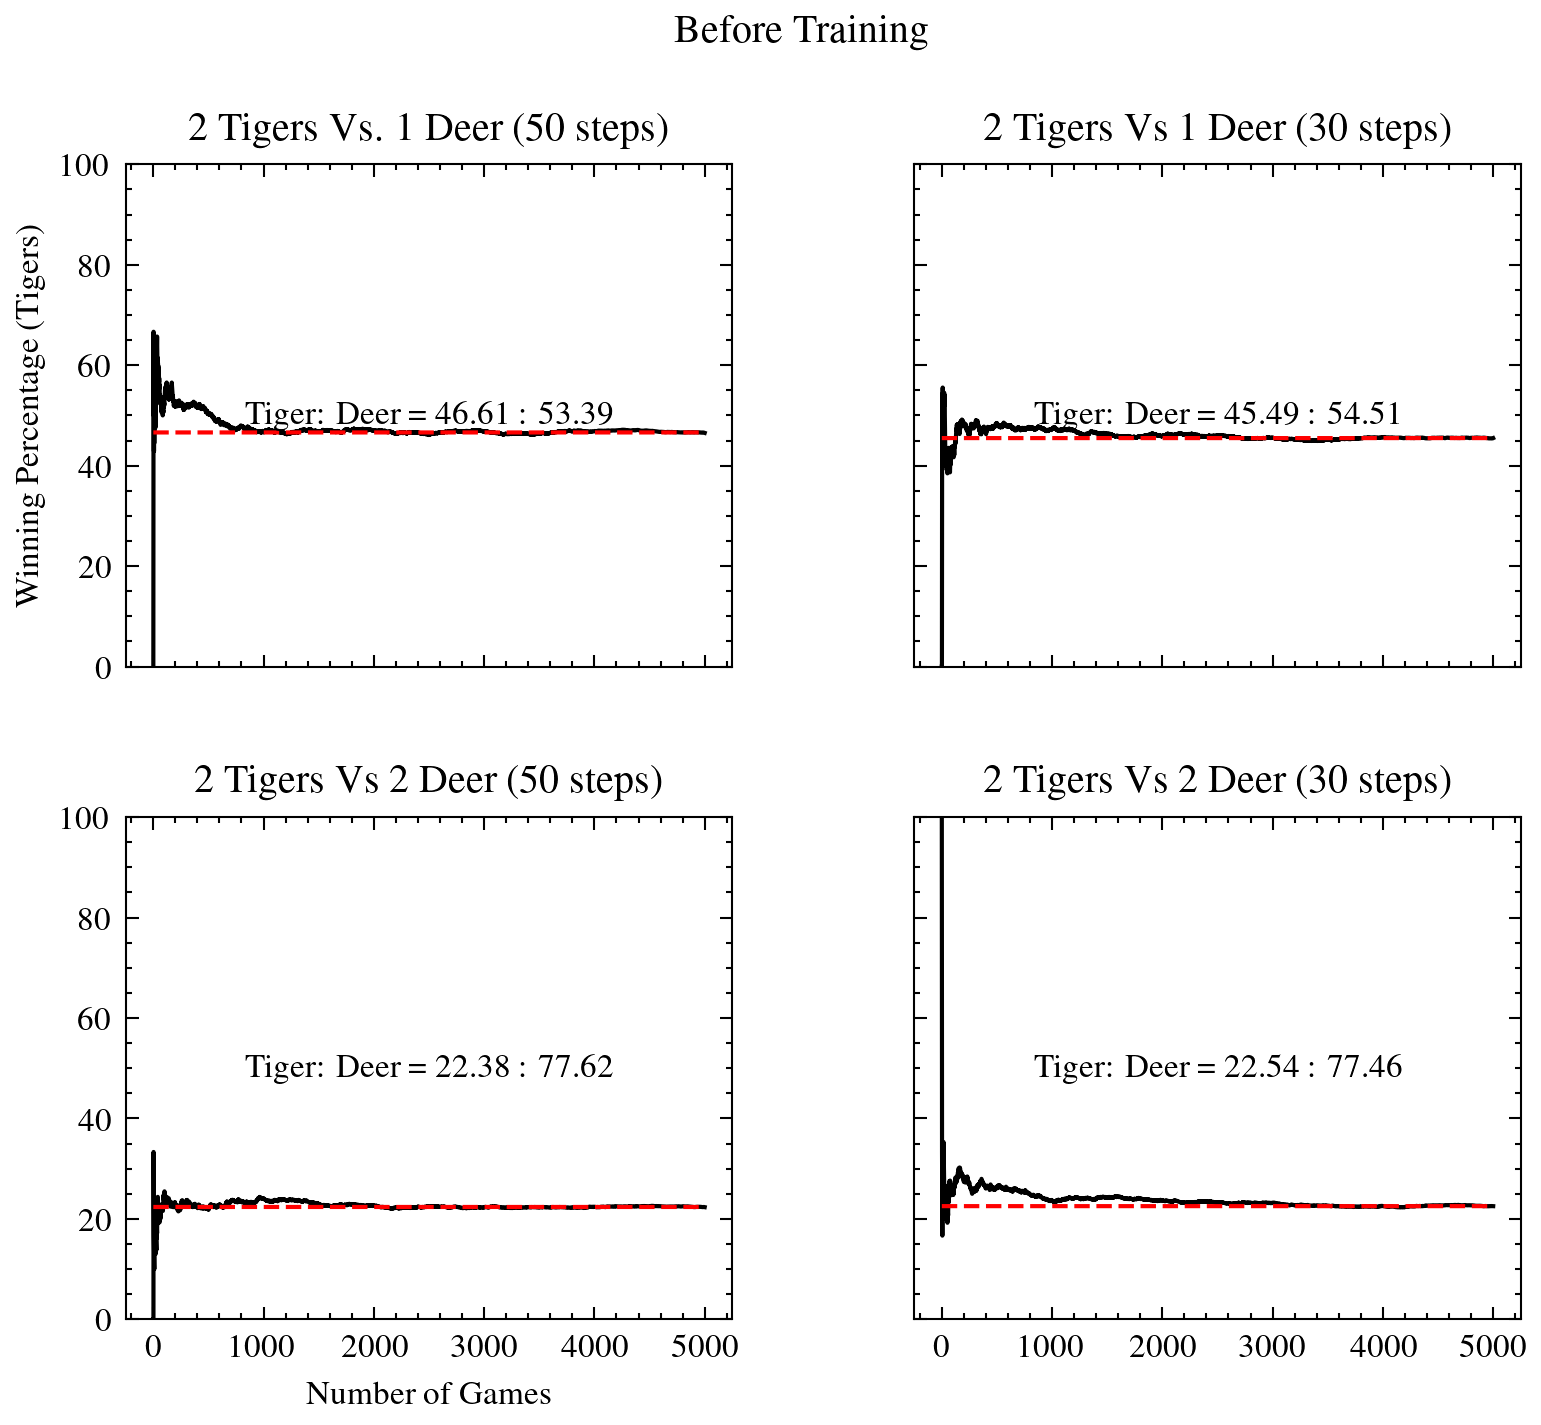
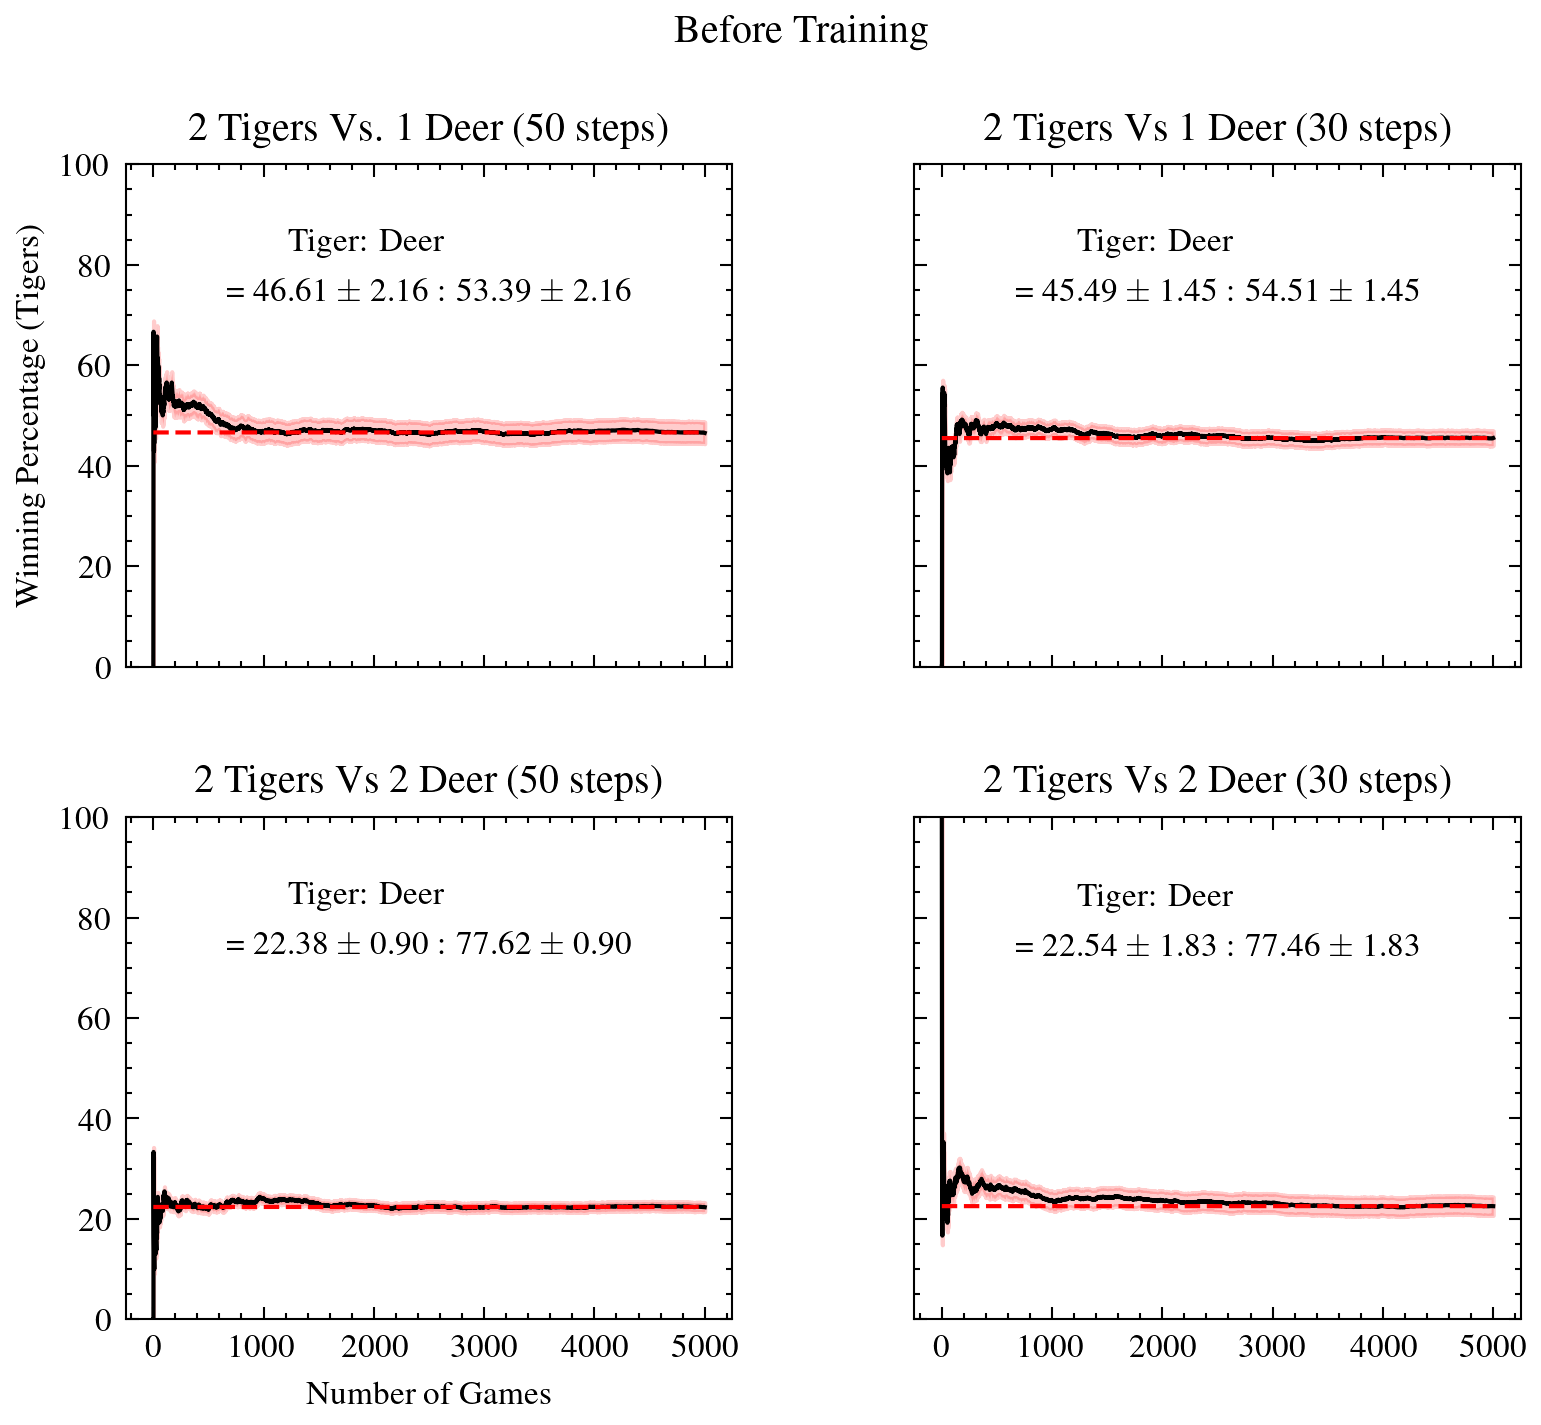
visualization_ready_update

diff --git a/visualization.py b/visualization.py
@@ -18,13 +18,18 @@ for ax, game_case in zip(axs, GAME_CASES.keys()):
 
     tiger_win_percentage, num_games, final_tiger_win_percentage = calculate_winning_ratio(hist)
 
+    std = np.std(tiger_win_percentage, axis=0)
+
     ax.set_title(GAME_CASES[game_case]['title'])
     ax.plot(num_games, tiger_win_percentage,
             label='Tiger Winning Percentage')
+    ax.fill_between(num_games, tiger_win_percentage - std,
+                    tiger_win_percentage + std, color='red',
+                    alpha=0.2)
     ax.plot(num_games, final_tiger_win_percentage * np.ones_like(num_games),
             label='Converged Tiger Winning Percentage')
-    ax.text(0.5, 0.5, f'Tiger: Deer = {final_tiger_win_percentage:0.2f} :'
-                      f' {100 - final_tiger_win_percentage:0.2f}',
+    ax.text(0.5, 0.8, rf'Tiger: Deer \\ = {final_tiger_win_percentage:0.2f} $\pm$ {std:0.2f} :'
+                      rf' {100 - final_tiger_win_percentage:0.2f} $\pm$ {std:0.2f}',
             ha='center', va='center', transform=ax.transAxes)
     ax.set_ylim(0, 100)
 axs[2].set_xlabel('Number of Games')
@@ -48,6 +53,11 @@ for ax, game_case in zip(axs, GAME_CASES.keys()):
     twp_only_tiger, neps_only_tiger, ftwp_only_tiger = calculate_winning_ratio(hist_only_tiger)
     twp_only_deer, neps_only_deer, ftwp_only_deer = calculate_winning_ratio(hist_only_deer)
     twp_both, neps_both, ftwp_both = calculate_winning_ratio(hist_both)
+
+    std_only_tiger = np.std(twp_only_tiger, axis=0)
+    std_only_deer = np.std(twp_only_deer, axis=0)
+    std_both = np.std(twp_both, axis=0)
+
     ax.set_title(GAME_CASES[game_case]['title'])
 
     ax.plot(neps_only_tiger, baseline_ftwp * np.ones_like(neps_only_tiger), color='black', linestyle='dashed',
@@ -62,6 +72,12 @@ for ax, game_case in zip(axs, GAME_CASES.keys()):
             label='Untrained Tiger Vs trained Deer')
     ax.plot(neps_both, twp_both, color='darkgreen', linestyle='solid',
             label='Trained Tiger Vs Trained Deer')
+
+    ax.fill_between(neps_only_tiger, twp_only_tiger - std_only_tiger, twp_only_tiger + std_only_tiger, color='navy',
+                    alpha=0.2)
+    ax.fill_between(neps_only_deer, twp_only_deer - std_only_deer, twp_only_deer + std_only_deer, color='darkred',
+                    alpha=0.2)
+    ax.fill_between(neps_both, twp_both - std_both, twp_both + std_both, color='darkgreen', alpha=0.2)
 
     ax.set_ylim(0, 100)
 axs[2].set_xlabel('Number of Episodes')
@@ -108,6 +124,30 @@ for ax, game_case in zip(axs, GAME_CASES.keys()):
             linestyle='dashed',
             label='Total States')
 
+    # ax.stackplot(neps_only_tiger,
+    #              states_visited_tiger_ot,
+    #              states_visited_deer_ot,
+    #              labels=['States (tiger) [Trained only tiger]',
+    #                      'States (deer) [Trained only tiger]'],
+    #              colors=['navy', 'skyblue'],
+    #              alpha=0.2)
+    # #
+    # ax.stackplot(neps_only_deer,
+    #              states_visited_tiger_od,
+    #              states_visited_deer_od,
+    #              labels=['States (tiger) [Trained only deer]',
+    #                      'States (deer) [Trained only deer]'],
+    #              colors=['darkgreen', 'lightgreen'],
+    #              alpha=0.2)
+    #
+    # ax.stackplot(neps_both,
+    #              states_visited_tiger_b,
+    #              states_visited_deer_b,
+    #              labels=['States (tiger) [Trained both]',
+    #                      'States (deer) [Trained both]'],
+    #              colors=['darkred', 'salmon'],
+    #              alpha=0.2)
+    #
     ax.plot(neps_only_tiger,
             states_visited_tiger_ot,
             color='navy',

diff --git a/utils.py b/utils.py
@@ -47,6 +47,26 @@ def get_q_history(hist):
     neps = np.array(hist["num_games"])
     return q_sum, states_visited_tiger, states_visited_deer, neps
 
+def get_moving_avg_and_std_error(hist):
+    cumulative_wins = np.array(hist['tiger_wins'])
+    incremental_wins = np.diff(cumulative_wins, prepend=0)
+
+    # Define the window size for the moving average (e.g., last 100 games)
+    window_size = 100
+
+    # Calculate the moving average of the winning probability for the last `window_size` games
+    # Ensure the window does not go out of bounds
+    start_index = max(0, len(incremental_wins) - window_size)
+    end_index = len(incremental_wins)
+    windowed_wins = incremental_wins[start_index:end_index]
+    moving_avg_win_prob = np.mean(windowed_wins)
+
+    # Calculate standard error for the moving average
+    # Use the standard deviation of the windowed wins and divide by the square root of the window size
+    standard_error = np.std(windowed_wins) / np.sqrt(window_size)
+    return moving_avg_win_prob, standard_error
+
+
 def calculate_angle(sprite1, sprite2):
     # Get the center positions of the sprites
     x1, y1 = sprite1.rect.center
